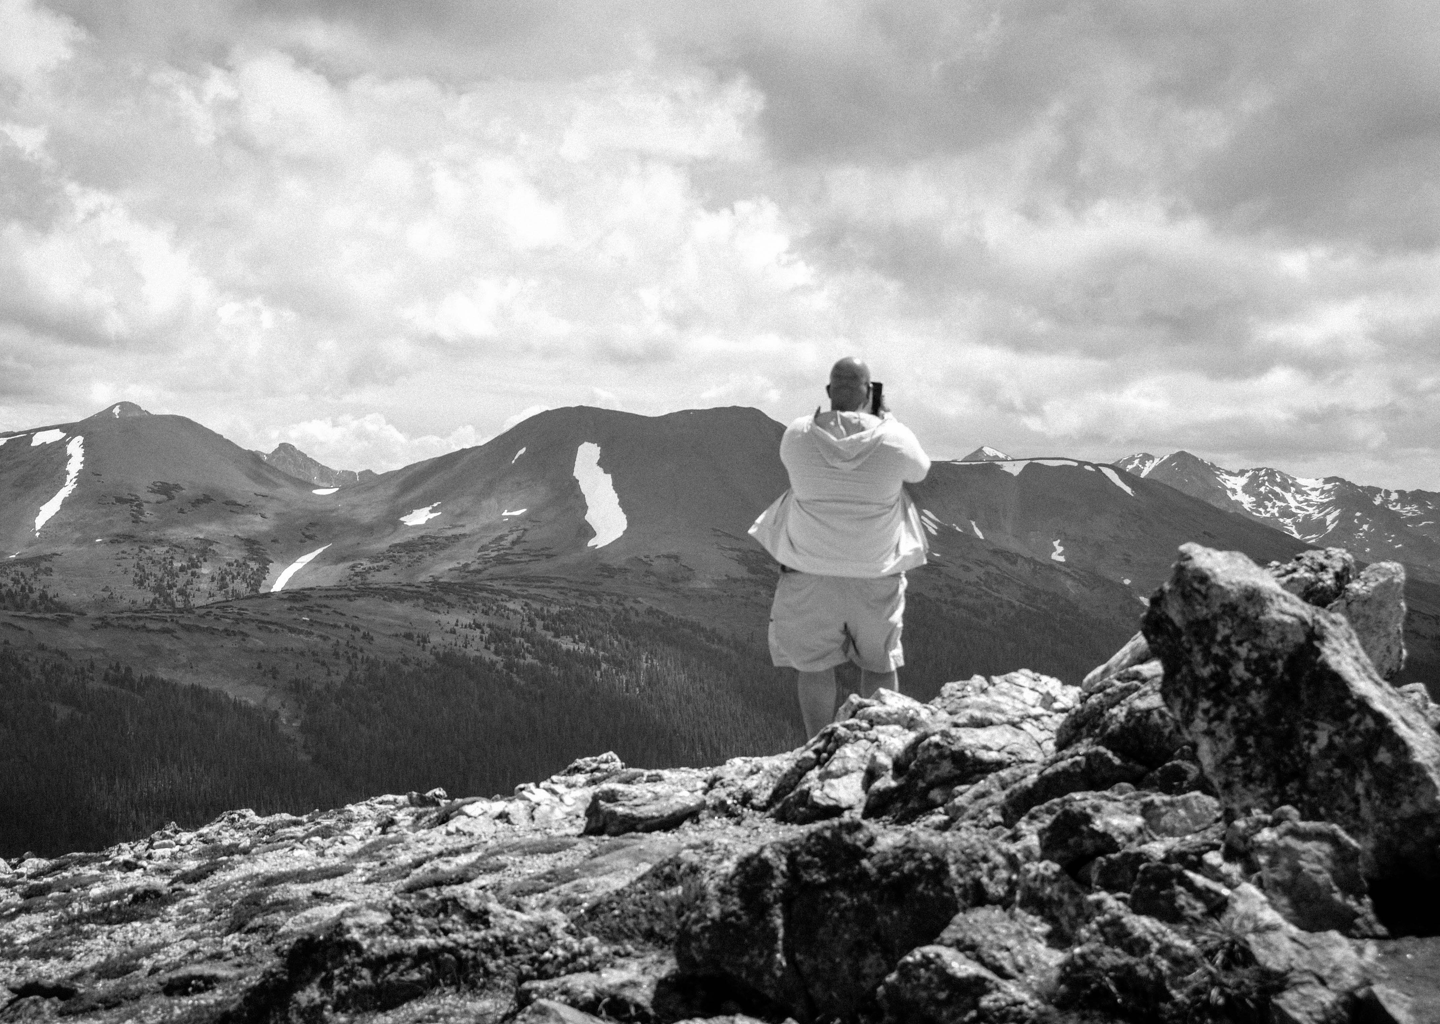
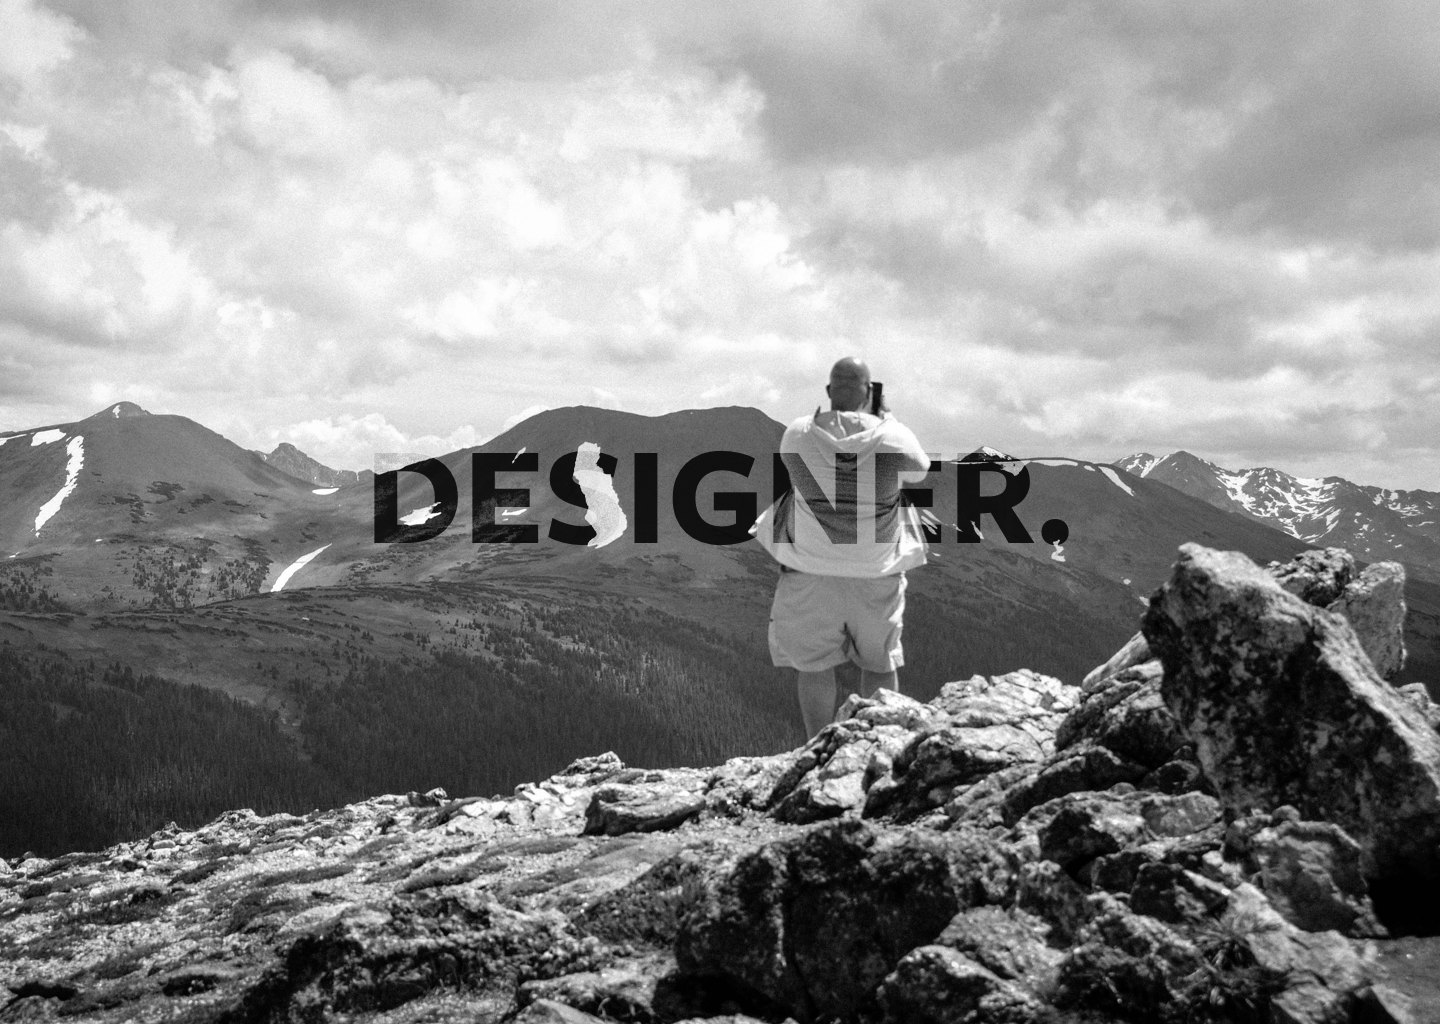
something something

Changed region(s): [[0.25, 0.4375, 0.75, 0.5312]]

diff --git a/_site/css/main.css b/_site/css/main.css
@@ -49,14 +49,3 @@ a {
   color: white;
   text-decoration: none;
   margin-left: 1rem; }
-
-.herotype {
-  text-align: center;
-  width: 100%;
-  font-size: 9rem;
-  font-family: "freight-sans-pro",sans-serif;
-  font-style: normal;
-  font-weight: 700;
-  margin-top: 20%;
-  mix-blend-mode: multiply;
-  color: rgba(0, 0, 0, 0.8); }

diff --git a/css/main.scss b/css/main.scss
@@ -42,15 +42,3 @@ a {
   text-decoration: none;
   margin-left: 1rem;
 }
-
-.herotype {
-  text-align: center;
-  width: 100%;
-  font-size: 9rem;
-  font-family: "freight-sans-pro",sans-serif;
-  font-style: normal;
-  font-weight: 700;
-  margin-top: 20%;
-  mix-blend-mode: multiply;
-  color: rgba(0, 0, 0, 0.8);
-}

diff --git a/_site/index.html b/_site/index.html
@@ -43,9 +43,7 @@
   </nav>
 </header>
 
-<h1 class="herotype">
-  DESIGNER.
-</h1>
+
   </body>
 
 </html>

diff --git a/index.html b/index.html
@@ -25,6 +25,3 @@ layout: default
   </nav>
 </header>
 
-<h1 class="herotype">
-  DESIGNER.
-</h1>
